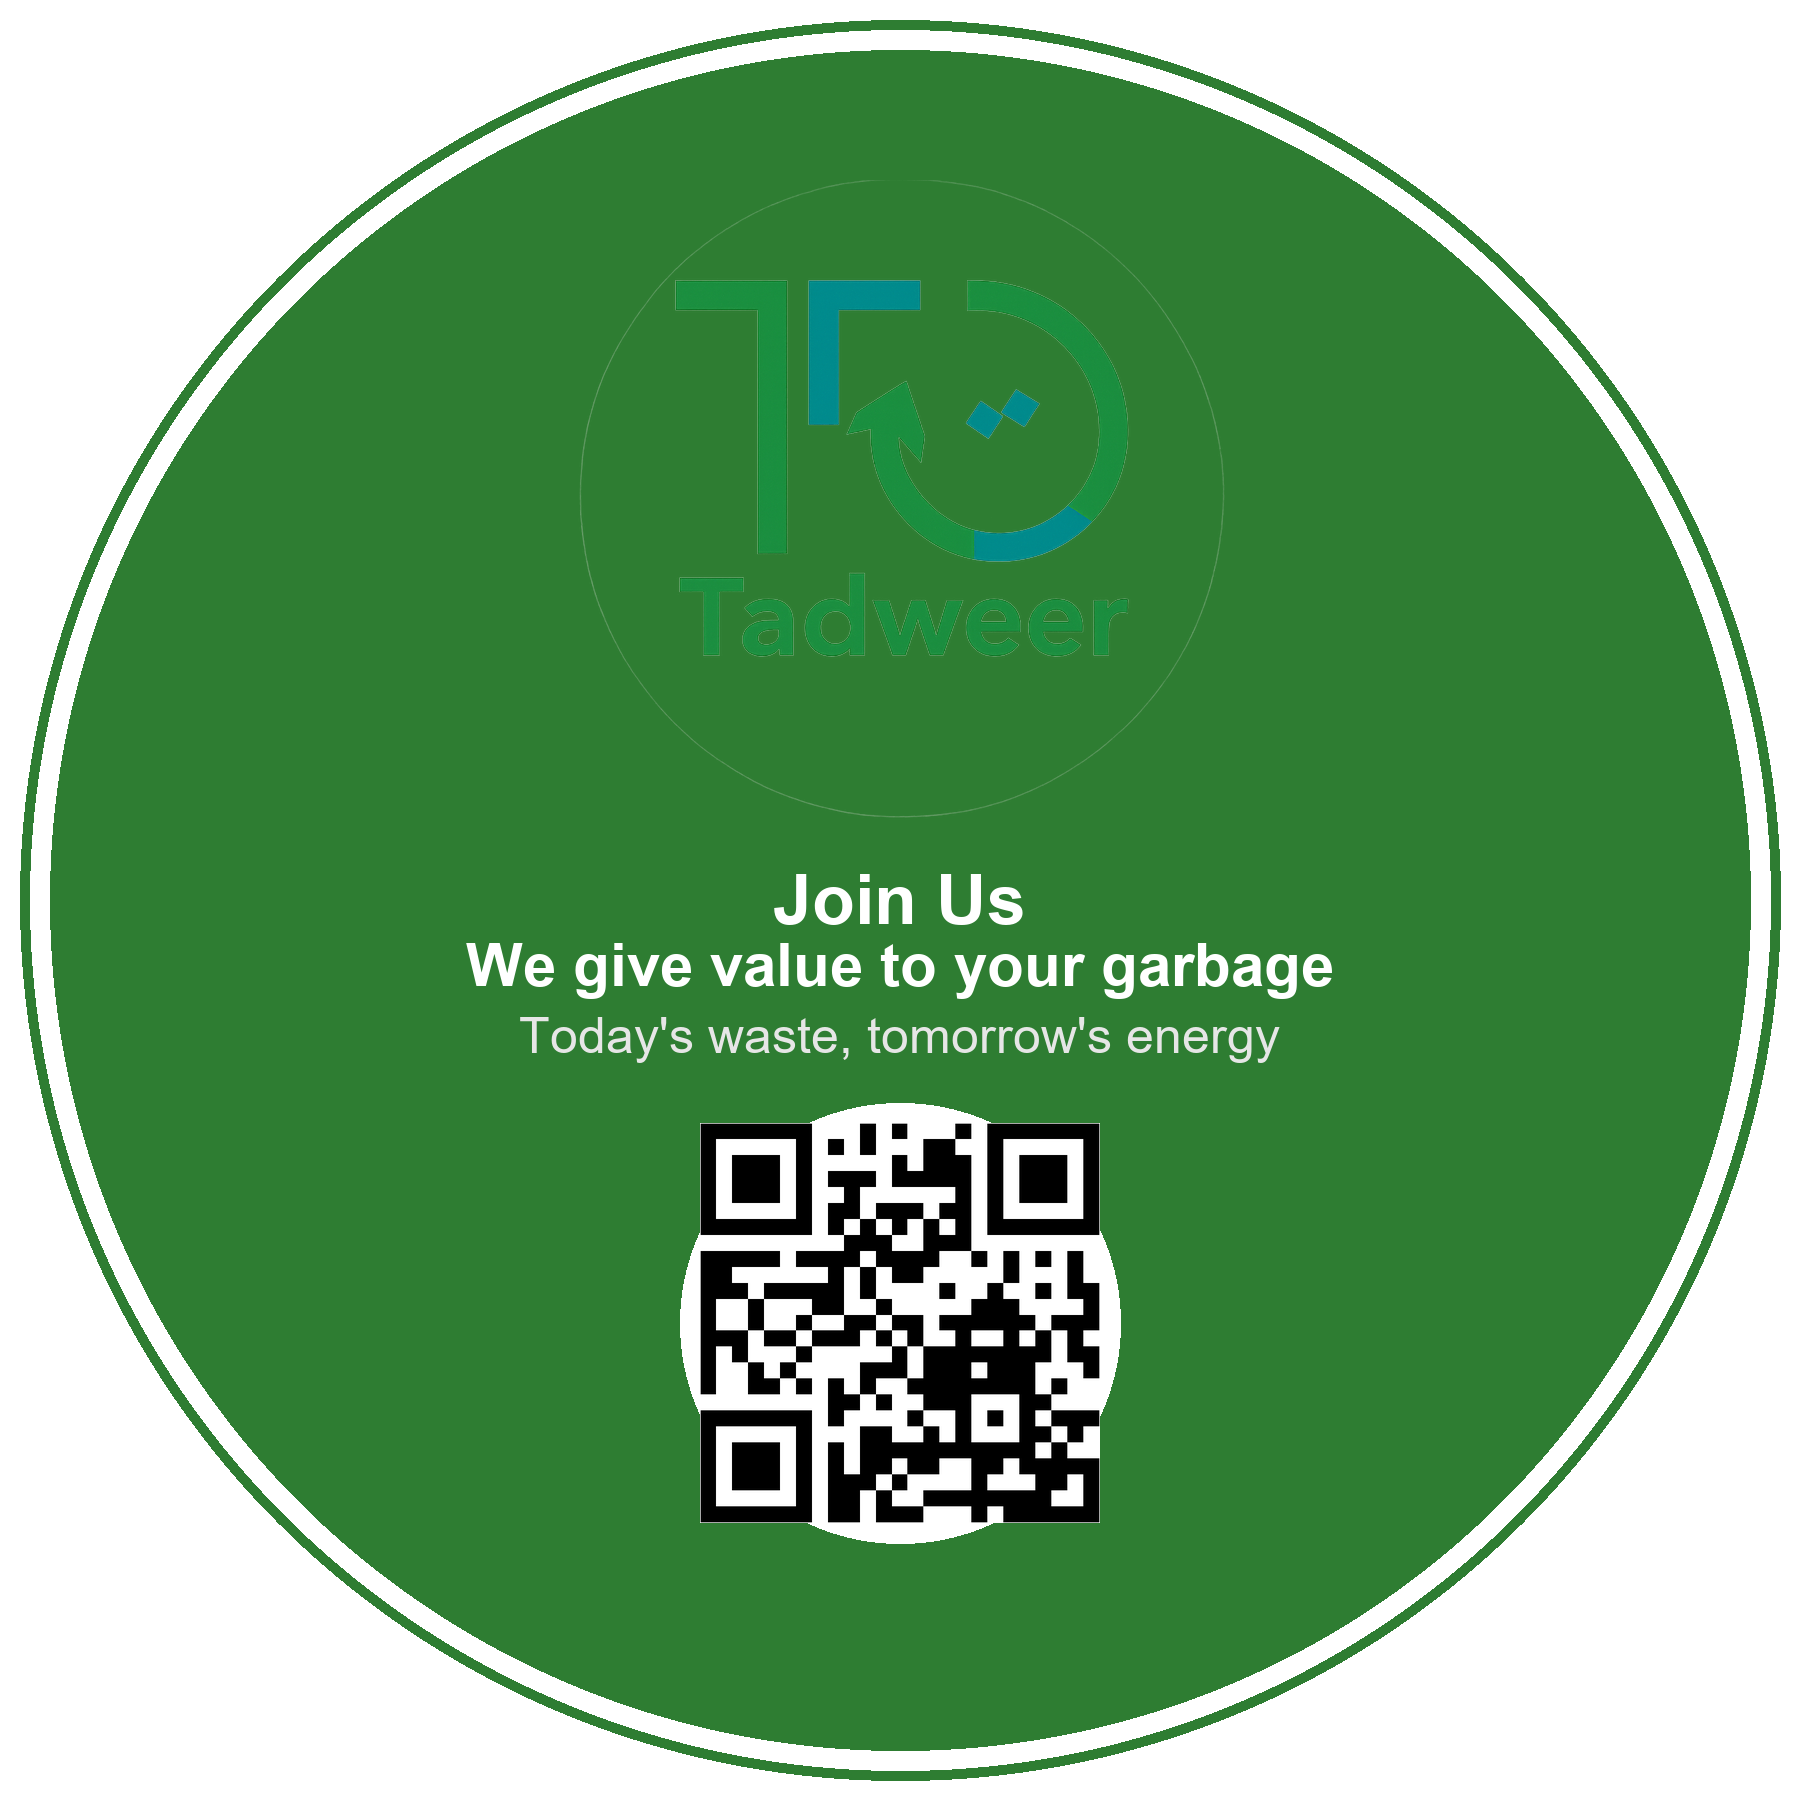
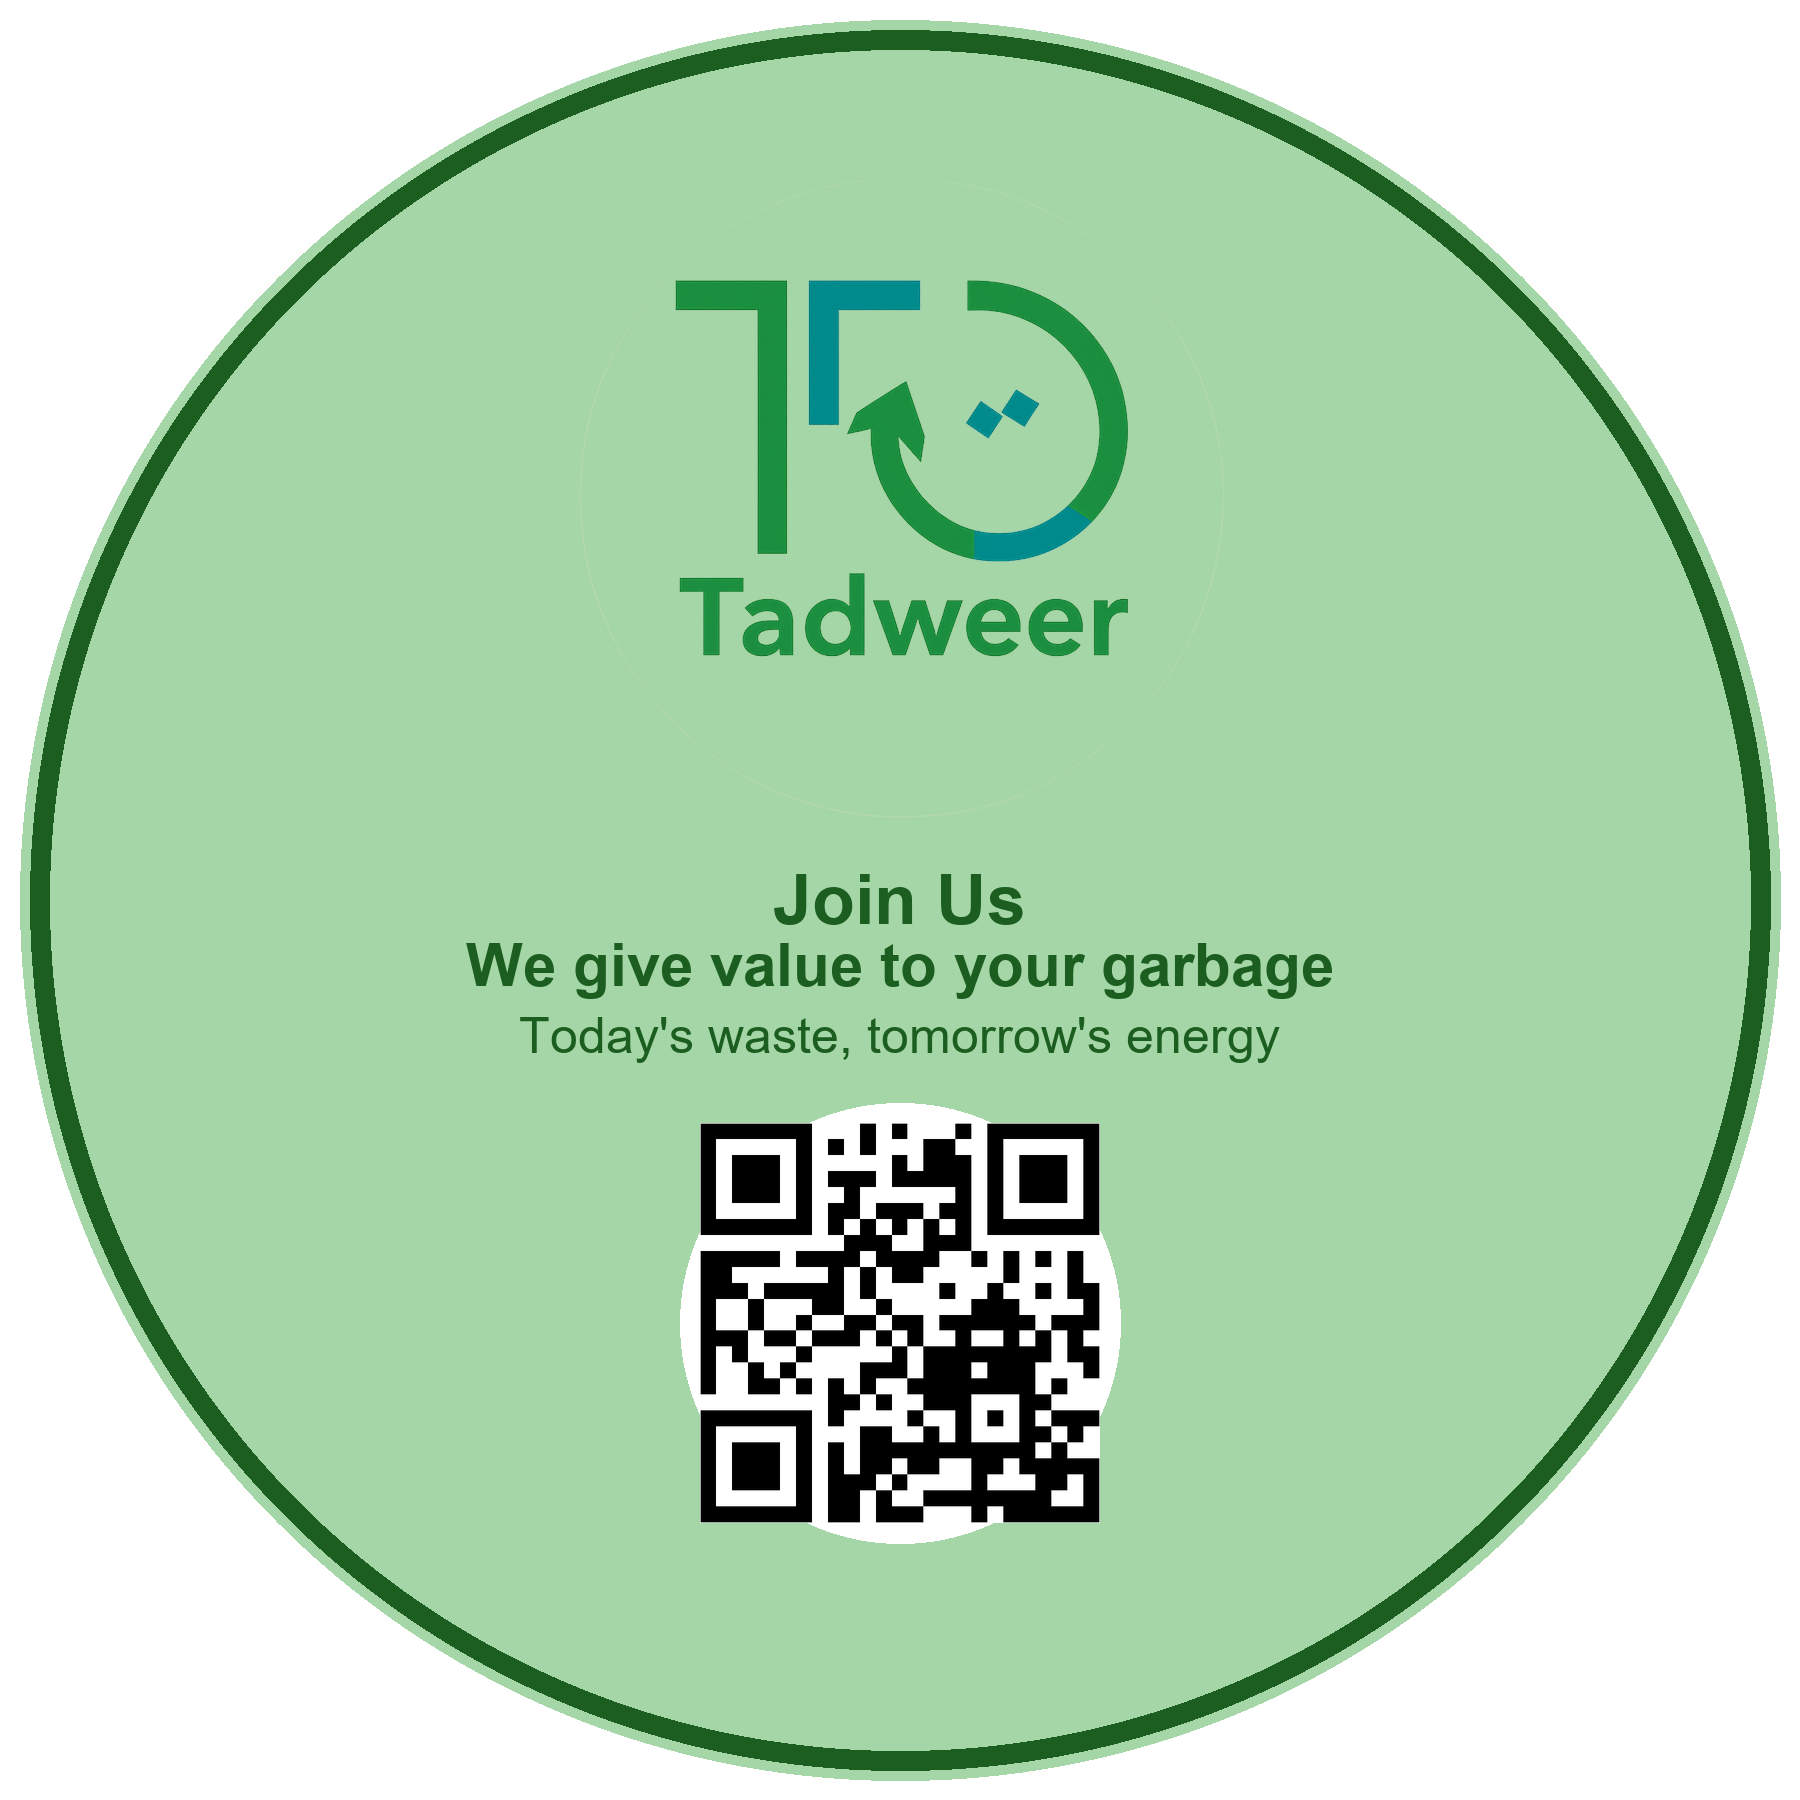
Update sticker colors to light green background and dark green text

diff --git a/tools/generate_sticker.py b/tools/generate_sticker.py
@@ -12,7 +12,8 @@ output_path = os.path.join(images_dir, 'tadweer_sticker.png')
 # 6x6 inches at 300 DPI = 1800x1800 pixels
 WIDTH = 1800
 HEIGHT = 1800
-BG_COLOR = (46, 125, 50)   # Primary green
+BG_COLOR = (165, 214, 167)   # Light green
+TEXT_COLOR = (27, 94, 32)    # Dark green
 WHITE = (255, 255, 255)
 JOIN_US_TEXT = "Join Us"
 SLOGAN = "We give value to your garbage"
@@ -80,7 +81,7 @@ bbox = draw.textbbox((0, 0), JOIN_US_TEXT, font=font_join)
 text_width = bbox[2] - bbox[0]
 text_height = bbox[3] - bbox[1]
 x_pos = (WIDTH - text_width) // 2
-draw.text((x_pos, current_y), JOIN_US_TEXT, fill=WHITE, font=font_join)
+draw.text((x_pos, current_y), JOIN_US_TEXT, fill=TEXT_COLOR, font=font_join)
 current_y += text_height + 20
 
 # Draw Slogan
@@ -88,7 +89,7 @@ bbox = draw.textbbox((0, 0), SLOGAN, font=font_slogan)
 text_width = bbox[2] - bbox[0]
 text_height = bbox[3] - bbox[1]
 x_pos = (WIDTH - text_width) // 2
-draw.text((x_pos, current_y), SLOGAN, fill=WHITE, font=font_slogan)
+draw.text((x_pos, current_y), SLOGAN, fill=TEXT_COLOR, font=font_slogan)
 current_y += text_height + 20
 
 # Draw Tagline
@@ -96,7 +97,7 @@ bbox = draw.textbbox((0, 0), TAGLINE, font=font_tagline)
 text_width = bbox[2] - bbox[0]
 text_height = bbox[3] - bbox[1]
 x_pos = (WIDTH - text_width) // 2
-draw.text((x_pos, current_y), TAGLINE, fill=(230, 230, 230), font=font_tagline)
+draw.text((x_pos, current_y), TAGLINE, fill=TEXT_COLOR, font=font_tagline)
 current_y += text_height + 50
 
 # Draw QR Code
@@ -120,7 +121,7 @@ border_width = 20
 draw.ellipse(
     [(center[0] - circle_radius + border_width//2, center[1] - circle_radius + border_width//2),
      (center[0] + circle_radius - border_width//2, center[1] + circle_radius - border_width//2)],
-    outline=WHITE,
+    outline=TEXT_COLOR,
     width=border_width
 )
 
